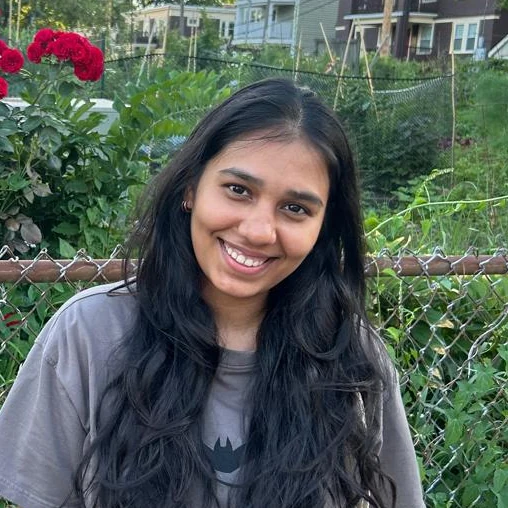
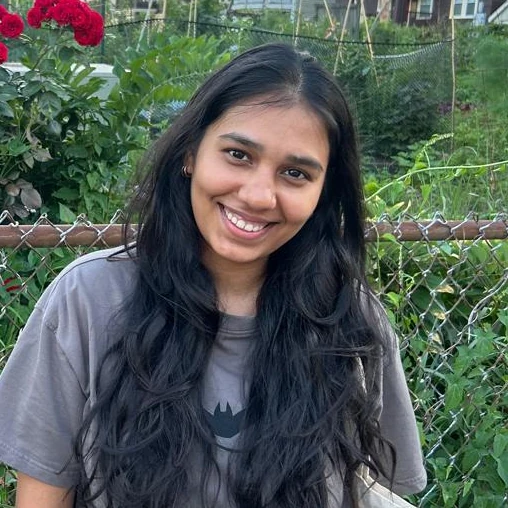
Raise her head in the portrait crop
Her face sits a third of the way down the square rather than four tenths, so
she is higher in the circle and more of her shoulders and shirt show
underneath. The crop is the same size; it just starts lower in the photograph.

The hero portrait carries a ?v= stamp now too. It is a file being iterated on
and it did not have one, so every recrop risked coming back as the previous
one out of cache.

diff --git a/index.html b/index.html
@@ -132,7 +132,7 @@
           </div>
         </div>
 
-        <img decoding="async" class="portrait home-portrait" src="images/kani-portrait.webp" alt="Kanishka Chandrakar">
+        <img decoding="async" class="portrait home-portrait" src="images/kani-portrait.webp?v=066f03e1" alt="Kanishka Chandrakar">
       </section>
 
       <hr class="divider">

diff --git a/tools-make-portrait.py b/tools-make-portrait.py
@@ -25,7 +25,7 @@ DST = os.path.join(HERE, "images", "kani-portrait.webp")
 
 FACE_X = 0.735      # where her face sits in the frame
 FACE_Y = 0.490
-FACE_DOWN = 0.40    # and where it should sit in the crop
+FACE_DOWN = 0.33    # and where it should sit in the crop
 
 
 def main():
